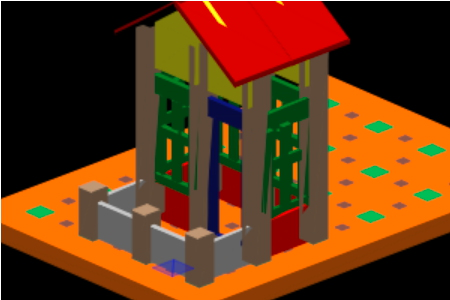
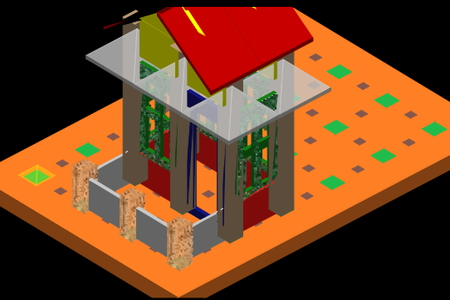
Project page updated with Little Contructor Three JS project

diff --git a/projects.html b/projects.html
@@ -51,8 +51,25 @@
 		<br>
 		
 		<div class="row"><div class="col"><h4>Projects</h4></div></div>
-		
+
 		<div class="row">
+			<div id="idLittleConstructorThreeJS" class="col-xs-12 col-sm-6 col-md-4 col-lg-4">
+				<div class="card text-justify border-0" >
+			  		<img src="img/little-constructor-threejs.jpg" class="card-img-top pointer" onclick="showCardButtons('idLittleConstructorThreeJS');">
+				  	<div class="d-none" id="cardButtons">    
+						<table class="nostyle" style="width:100%">
+							<tr style="height:5px"></tr>
+							<tr align="center"><th id="idButtons" style="width:100%"></th></tr>
+						</table>
+					</div>	
+
+				  	<div class="card-body" id="cardBody">
+					    <h6 id="cardTitle" class="card-title card-title-bold">...</h6>
+						<p id="cardDescription" class="card-text">...</p>
+					</div>
+				</div>
+			</div>
+
 			<div id="idLittleConstructor" class="col-xs-12 col-sm-6 col-md-4 col-lg-4">
 				<div class="card text-justify border-0" >
 			  		<img src="img/little-constructor.jpg" class="card-img-top pointer" onclick="showCardButtons('idLittleConstructor');">

diff --git a/js/main.js b/js/main.js
@@ -24,6 +24,16 @@ function populateCardsData_english(_cards)
 {
 	_cards.push(
 		new CardItem(
+			"idLittleConstructorThreeJS", 
+			"Little constructor ThreeJS" ,
+			"Same as 'Little constructor' with ThreeJS render engine (it looks solid). Play and build your own house model. Following @javidx9 tutorial I made my own 3D Engine (javascript). I tried to modelate this amazing toy from my childhood (see <a href='http://www.instagram.com/casitas_frm/'>link</a>).",
+			"https://mfontanadev.github.io/games/deployLittleConstructorThreeJS/index.html",
+			"https://github.com/mfontanadev/appLittleConstructor/tree/ThreeJS"
+		)
+	)
+
+	_cards.push(
+		new CardItem(
 			"idLittleConstructor", 
 			"Little constructor" ,
 			"Play and build your own house model. Following @javidx9 tutorial I made my own 3D Engine (javascript). I tried to modelate this amazing toy from my childhood (see <a href='http://www.instagram.com/casitas_frm/'>link</a>).",
